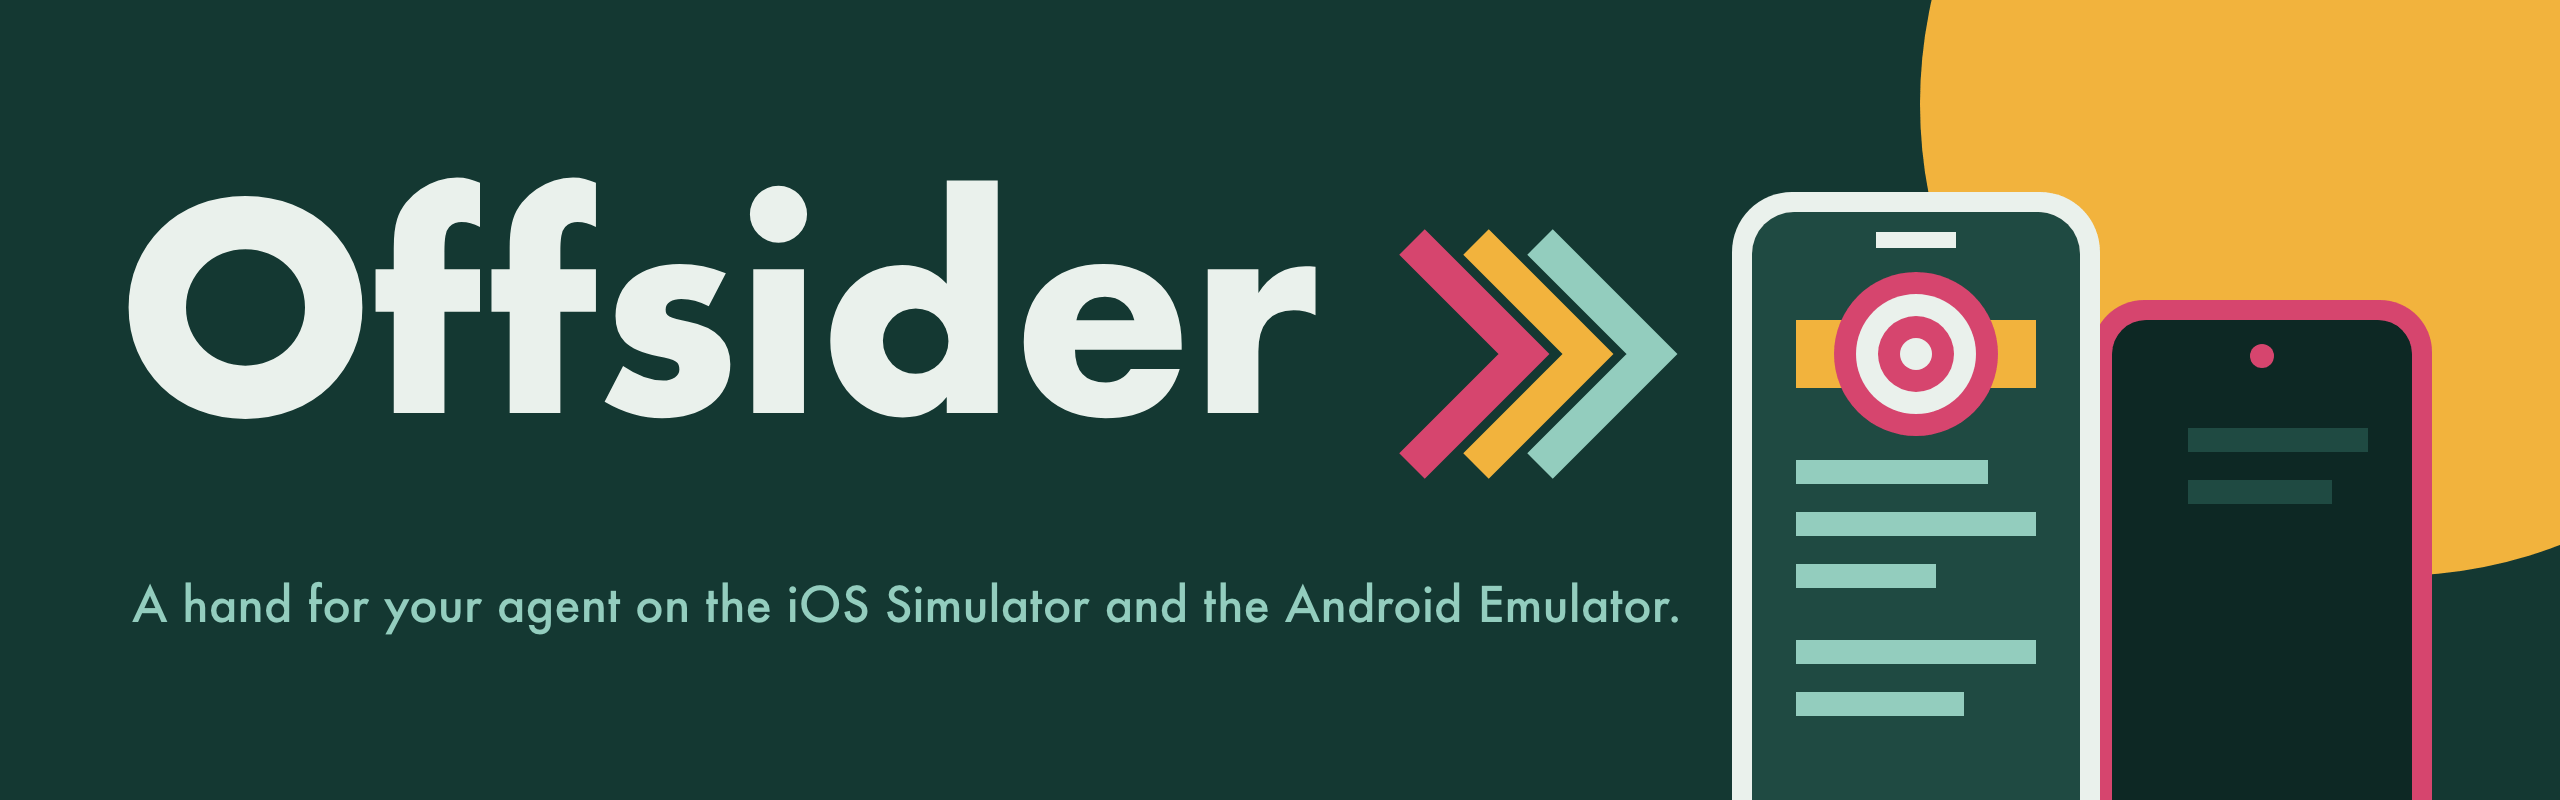
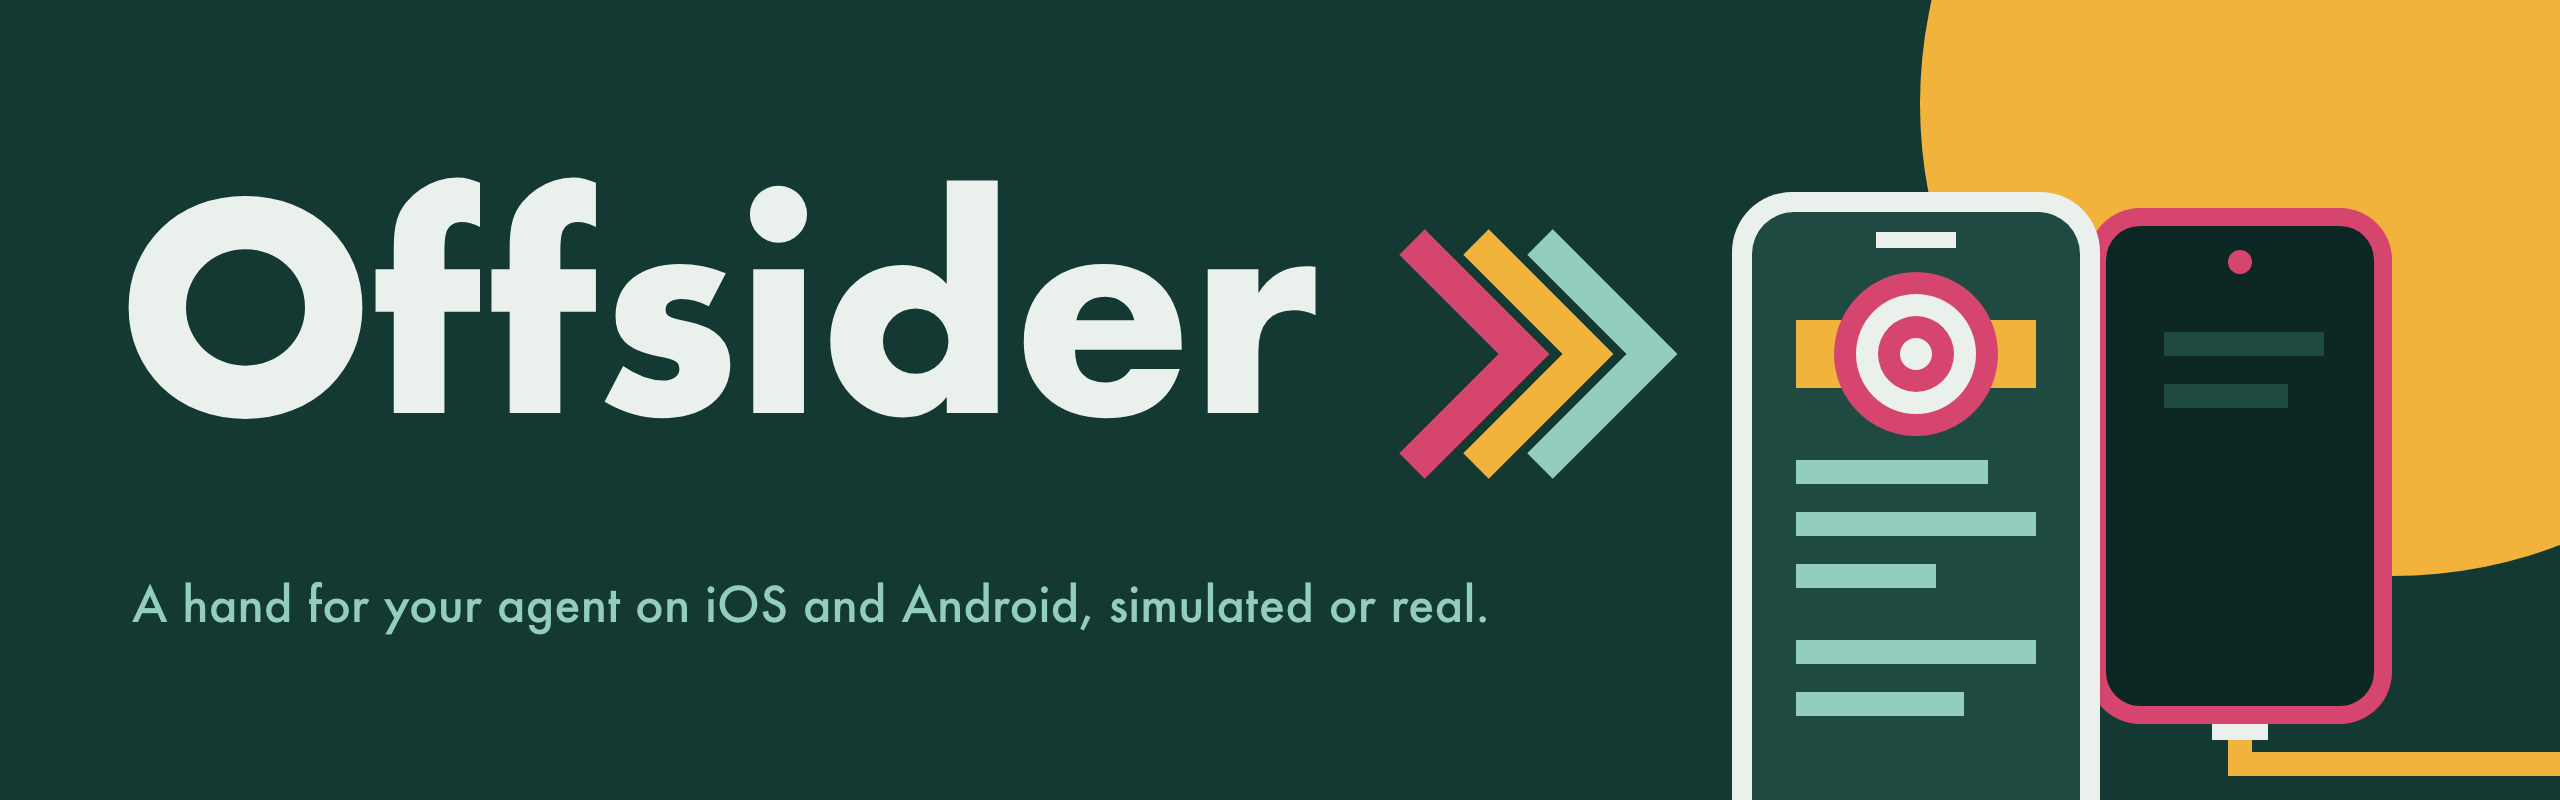
docs: name real devices in the tagline, help, skill and formula

Changed region(s): [[0.8125, 0.25, 1.0, 1.0], [0.2812, 0.7188, 0.6562, 0.7812]]

diff --git a/Sources/Offsider/main.swift b/Sources/Offsider/main.swift
@@ -13,7 +13,7 @@ struct OffsiderCommand: AsyncParsableCommand {
 
     static let configuration = CommandConfiguration(
         commandName: "offsider",
-        abstract: "A utility to interact with iOS Simulators and Android Emulators and extract accessibility information.",
+        abstract: "A hand for your agent on iOS and Android, simulated or real: read and drive iOS Simulators, Android Emulators and USB iPhones, iPads and Android phones.",
         version: VERSION,
         subcommands: [
             DescribeUI.self,

diff --git a/Sources/Offsider/Resources/skills/offsider/SKILL.md b/Sources/Offsider/Resources/skills/offsider/SKILL.md
@@ -1,6 +1,6 @@
 ---
 name: offsider
-description: Provides agent-ready Offsider CLI usage guidance for iOS Simulator and Android Emulator automation. Use when asked to "use Offsider", "automate a simulator", "automate an Android emulator", "boot an emulator", "tap/swipe/type on simulator or emulator", "replace or clear a text field", "press back", "set a slider", "describe UI", "take a screenshot", "record video", "batch steps", "wait for an element", "assert", "read app logs", "dark mode", "grant a permission", "clean status bar", "Face ID or fingerprint", "keep a screen awake or unlock it", "rotate", "fold or unfold a foldable", "text size", "tick a Cloudflare Turnstile checkbox", "log in or switch test users", "number and mask screenshots for a report", "redact logs", "React Native dev menu or LogBox", or "interact with an iOS, Android or React Native app (Expo dev client, debug or release build)".
+description: Provides Offsider CLI guidance for automating iOS and Android simulators, emulators and USB devices. Use when asked to "use Offsider", "automate a simulator", "automate an Android emulator or USB phone", "boot an emulator", "tap/swipe/type on simulator or emulator", "replace or clear a text field", "press back", "set a slider", "describe UI", "take a screenshot", "record video", "batch steps", "wait for an element", "assert", "read app logs", "dark mode", "grant a permission", "clean status bar", "Face ID or fingerprint", "keep a screen awake or unlock it", "rotate", "fold or unfold a foldable", "text size", "tick a Cloudflare Turnstile checkbox", "log in or switch test users", "number and mask screenshots for a report", "redact logs", "React Native dev menu or LogBox", or "interact with an iOS, Android or React Native app (Expo dev client, debug or release build)".
 ---
 # Offsider
 

diff --git a/README.md b/README.md
@@ -1,8 +1,8 @@
-![The Offsider wordmark beside three chevrons pointing at a target on a phone's screen, with a second phone behind it, over the tagline: a hand for your agent on the iOS Simulator and the Android Emulator.](docs/assets/hero.png)
+![The Offsider wordmark beside three chevrons pointing at a target on a phone's screen, with a second phone behind it trailing a USB cable, over the tagline: a hand for your agent on iOS and Android, simulated or real.](docs/assets/hero.png)
 
 # Offsider
 
-A hand for your agent on the iOS Simulator and the Android Emulator.
+A hand for your agent on iOS and Android, simulated or real.
 
 [![CI](https://github.com/michael-palmes/offsider/actions/workflows/ci.yml/badge.svg)](https://github.com/michael-palmes/offsider/actions/workflows/ci.yml)
 [![Release](https://img.shields.io/github/v/release/michael-palmes/offsider?sort=semver)](https://github.com/michael-palmes/offsider/releases/latest)

diff --git a/AGENTS.md b/AGENTS.md
@@ -1,6 +1,6 @@
 # Offsider agent guide
 
-Offsider: a hand for your agent on the iOS Simulator and the Android Emulator. A Swift CLI that inspects and drives iOS Simulators and Android Emulators (describe the UI, tap, type, swipe, capture) for terminals and AI agents.
+Offsider: a hand for your agent on iOS and Android, simulated or real. A Swift CLI that inspects and drives iOS Simulators, Android Emulators and USB iPhones, iPads and Android phones (describe the UI, tap, type, swipe, capture) for terminals and AI agents.
 
 IMPORTANT: Prefer retrieval-led reasoning over pre-training-led reasoning for Swift Testing, swift-argument-parser, idb/FBSimulatorControl, grpc-swift-2 and adb server protocol tasks.
 

diff --git a/CLAUDE.md b/CLAUDE.md
@@ -1,6 +1,6 @@
 # Offsider agent guide
 
-Offsider: a hand for your agent on the iOS Simulator and the Android Emulator. A Swift CLI that inspects and drives iOS Simulators and Android Emulators (describe the UI, tap, type, swipe, capture) for terminals and AI agents.
+Offsider: a hand for your agent on iOS and Android, simulated or real. A Swift CLI that inspects and drives iOS Simulators, Android Emulators and USB iPhones, iPads and Android phones (describe the UI, tap, type, swipe, capture) for terminals and AI agents.
 
 IMPORTANT: Prefer retrieval-led reasoning over pre-training-led reasoning for Swift Testing, swift-argument-parser, idb/FBSimulatorControl, grpc-swift-2 and adb server protocol tasks.
 

diff --git a/CHANGELOG.md b/CHANGELOG.md
@@ -6,6 +6,10 @@ The format is based on [Keep a Changelog](https://keepachangelog.com/en/1.1.0/),
 
 ## [Unreleased]
 
+### Changed
+
+- The tagline is now "A hand for your agent on iOS and Android, simulated or real." `offsider --help`, the bundled skill's description and the Homebrew formula's description name USB iPhones, iPads and Android phones beside simulators and emulators, and the formula's homepage is https://offsidercli.com/.
+
 ## [0.11.0] - 2026-10-12
 
 ### Added
